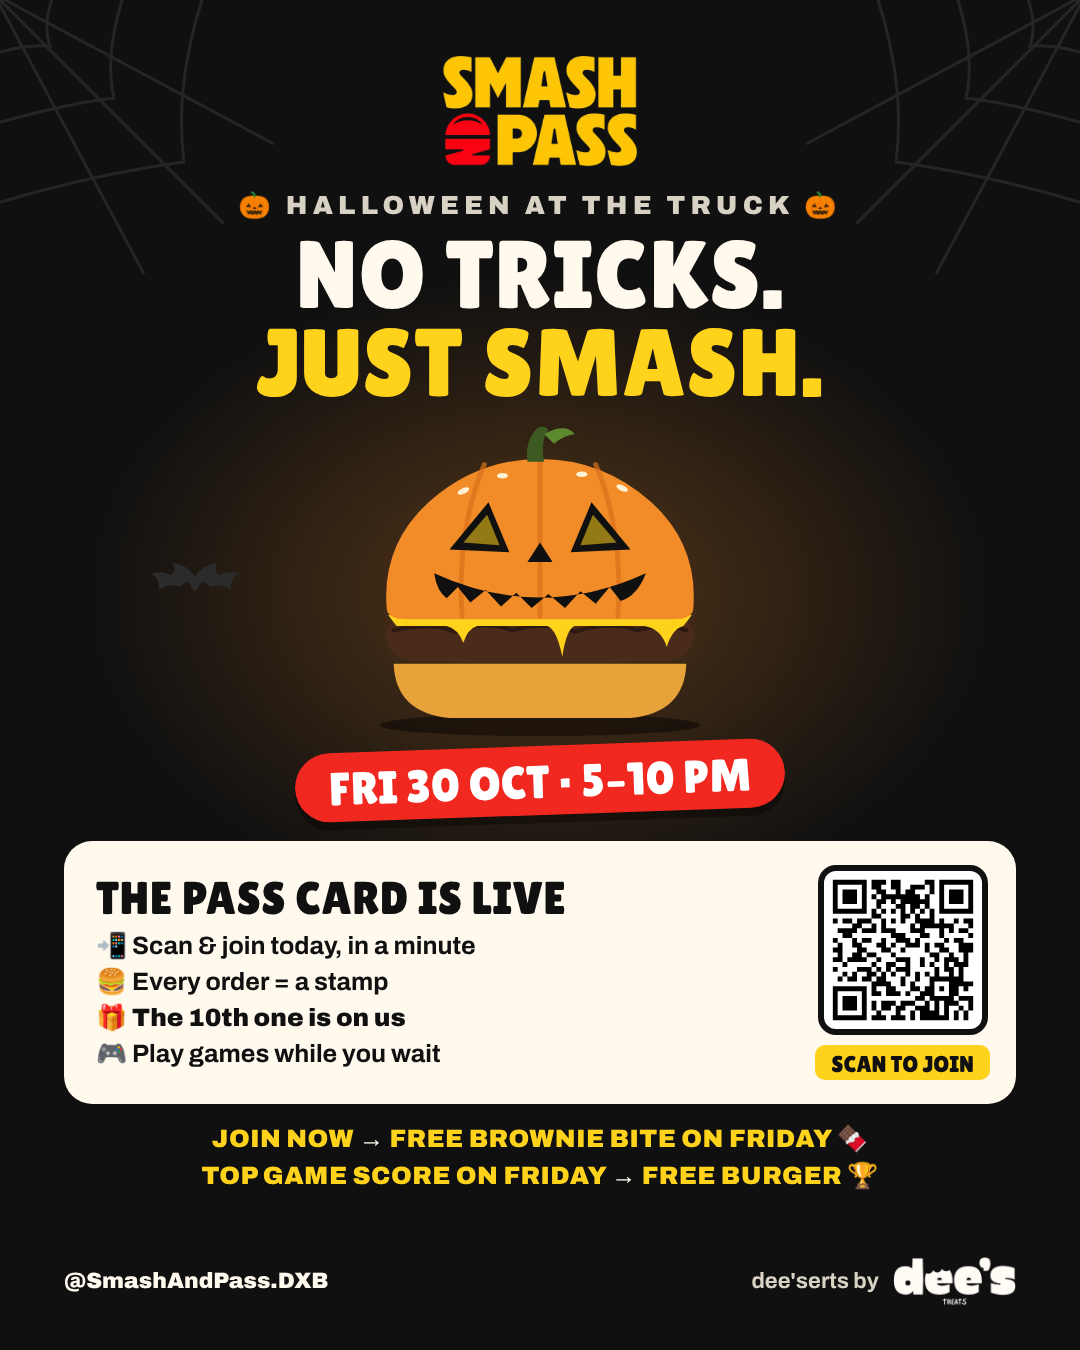
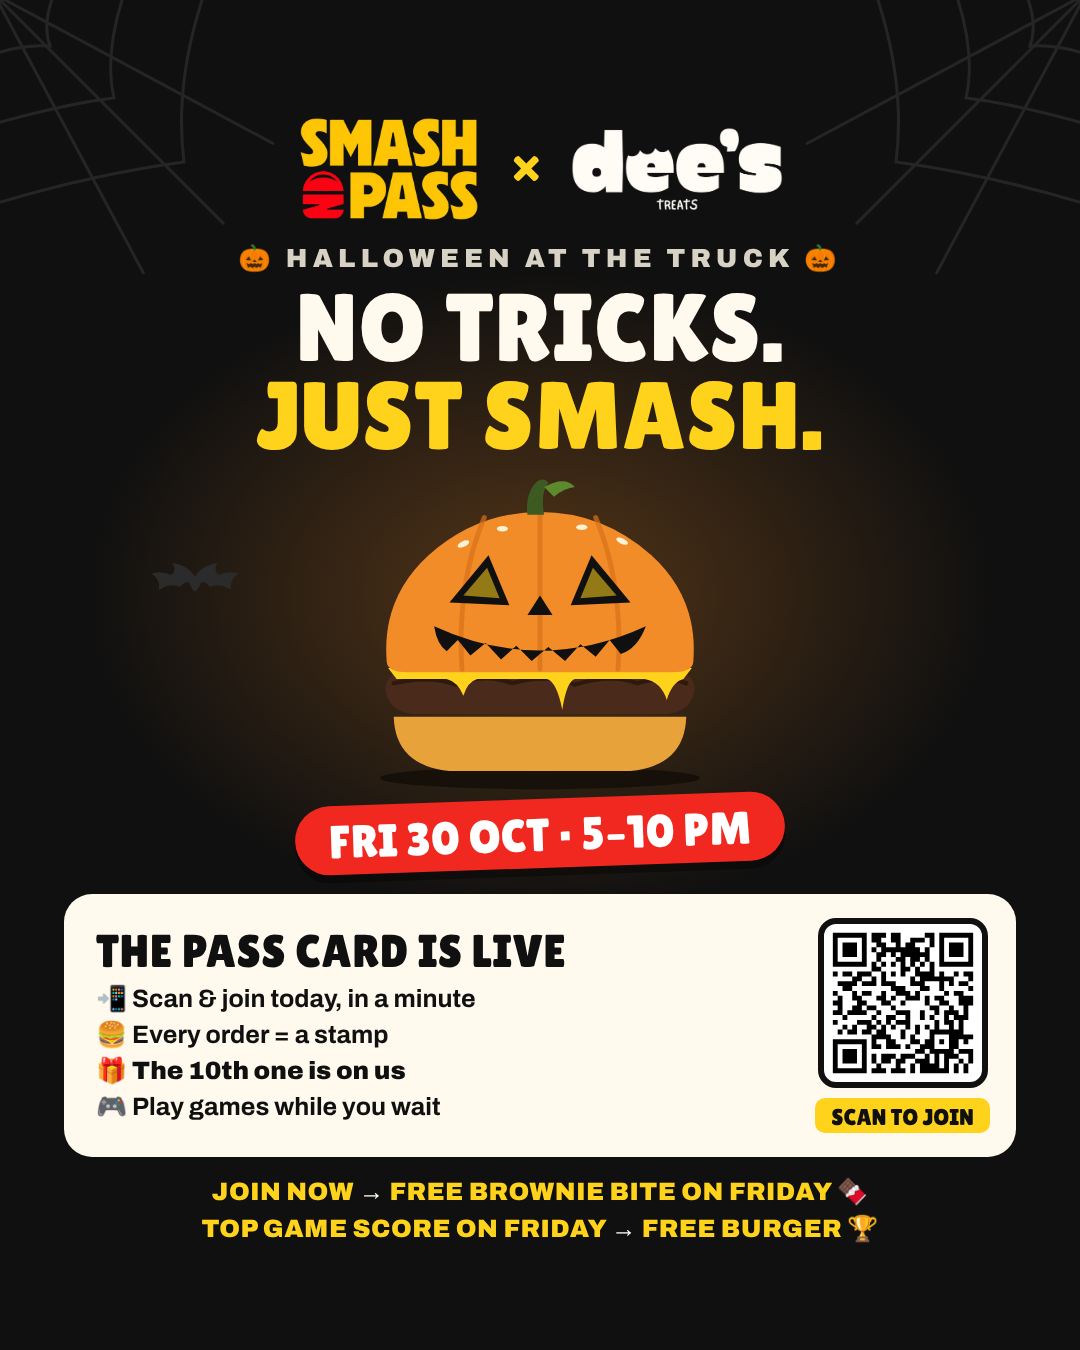
Flyers: Smash × Dee's lockup on the Halloween flyer
Both logos side by side at the top with Dee's shown big, for posting on
Dee's page; the footer (Smash's Instagram, the small Dee's mark) is gone
and the content is centred.

Claude-Session: https://claude.ai/code/session_013jqCNqdF81wxGwRqXjaL6W

Changed region(s): [[0.0611, 0.0311, 0.9472, 0.9644]]

diff --git a/flyers/smash-halloween-2026/flyer.html b/flyers/smash-halloween-2026/flyer.html
@@ -8,14 +8,17 @@
 :root{--ink:#101010;--yel:#FFD21C;--red:#F02820;--cream:#FFF9EE;--kraft:#D8D2C4;--pump:#F28C28}
 *{box-sizing:border-box;margin:0;padding:0}
 body{background:#333;font-family:Archivo,sans-serif}
-.board{position:relative;overflow:hidden;background:radial-gradient(60% 34% at 50% 44%,rgba(242,140,40,.30),rgba(242,140,40,0) 70%),var(--ink);color:var(--cream);display:flex;flex-direction:column;align-items:center;text-align:center}
+.board{position:relative;overflow:hidden;background:radial-gradient(60% 34% at 50% 44%,rgba(242,140,40,.30),rgba(242,140,40,0) 70%),var(--ink);color:var(--cream);display:flex;flex-direction:column;align-items:center;justify-content:center;text-align:center}
 #story{width:1080px;height:1920px;padding:70px 70px 60px}
 #post{width:1080px;height:1350px;padding:52px 64px 44px}
 .web{position:absolute;width:300px;height:300px;opacity:.5}
 .web.l{left:-6px;top:-6px}.web.r{right:-6px;top:-6px;transform:scaleX(-1)}
 .bat{position:absolute;fill:#2B2B2B}
-.logo{display:block;height:170px;width:auto}
-#post .logo{height:118px}
+.lock{display:flex;align-items:center;justify-content:center;gap:34px;position:relative;z-index:1}   /* in front of the web */
+.logo{display:block;height:150px;width:auto}
+.dlogo{display:block;height:118px;width:auto}
+.x{font-family:Lilita,sans-serif;font-size:84px;line-height:1;color:var(--yel)}
+#post .lock{gap:26px}#post .logo{height:108px}#post .dlogo{height:86px}#post .x{font-size:62px}
 .kick{font-weight:900;font-size:32px;letter-spacing:.2em;color:var(--kraft);margin-top:34px}
 #post .kick{font-size:26px;margin-top:20px}
 h1{font-family:Lilita,sans-serif;font-weight:400;line-height:.92;margin-top:16px;letter-spacing:.01em}
@@ -82,7 +85,7 @@ h1 .y{color:var(--yel)}
   <div class="slot-web"></div>
   <svg class="bat" style="left:110px;top:760px;width:120px" viewBox="0 0 120 50"><path d="M60 22 Q50 6 30 4 Q36 14 28 20 Q16 14 2 18 Q14 26 12 40 Q26 30 40 36 Q46 28 52 30 Q56 40 60 42 Q64 40 68 30 Q74 28 80 36 Q94 30 108 40 Q106 26 118 18 Q104 14 92 20 Q84 14 90 4 Q70 6 60 22 Z"/></svg>
   <svg class="bat" style="right:120px;top:900px;width:90px" viewBox="0 0 120 50"><path d="M60 22 Q50 6 30 4 Q36 14 28 20 Q16 14 2 18 Q14 26 12 40 Q26 30 40 36 Q46 28 52 30 Q56 40 60 42 Q64 40 68 30 Q74 28 80 36 Q94 30 108 40 Q106 26 118 18 Q104 14 92 20 Q84 14 90 4 Q70 6 60 22 Z"/></svg>
-  <img class="logo" src="logo.png" alt="Smash &amp; Pass">
+  <div class="lock"><img class="logo" src="logo.png" alt="Smash &amp; Pass"><span class="x">×</span><img class="dlogo" src="dees-mark.png" alt="Dee's Treats"></div>
   <div class="kick">🎃 HALLOWEEN AT THE TRUCK 🎃</div>
   <h1><span>NO TRICKS.</span><span class="y">JUST SMASH.</span></h1>
   <div class="slot-burger"></div>
@@ -103,13 +106,12 @@ h1 .y{color:var(--yel)}
     <div>JOIN NOW <i>→</i> FREE BROWNIE BITE ON FRIDAY 🍫</div>
     <div>TOP GAME SCORE ON FRIDAY <i>→</i> FREE BURGER 🏆</div>
   </div>
-  <div class="foot"><span><b>@SmashAndPass.DXB</b></span><span class="dees">dee'serts by <img src="dees-mark.png" alt="Dee's Treats"></span></div>
 </div>
 
 <div class="board" id="post">
   <div class="slot-web"></div>
   <svg class="bat" style="left:150px;top:560px;width:90px" viewBox="0 0 120 50"><path d="M60 22 Q50 6 30 4 Q36 14 28 20 Q16 14 2 18 Q14 26 12 40 Q26 30 40 36 Q46 28 52 30 Q56 40 60 42 Q64 40 68 30 Q74 28 80 36 Q94 30 108 40 Q106 26 118 18 Q104 14 92 20 Q84 14 90 4 Q70 6 60 22 Z"/></svg>
-  <img class="logo" src="logo.png" alt="Smash &amp; Pass">
+  <div class="lock"><img class="logo" src="logo.png" alt="Smash &amp; Pass"><span class="x">×</span><img class="dlogo" src="dees-mark.png" alt="Dee's Treats"></div>
   <div class="kick">🎃 HALLOWEEN AT THE TRUCK 🎃</div>
   <h1><span>NO TRICKS.</span><span class="y">JUST SMASH.</span></h1>
   <div class="slot-burger"></div>
@@ -130,7 +132,6 @@ h1 .y{color:var(--yel)}
     <div>JOIN NOW <i>→</i> FREE BROWNIE BITE ON FRIDAY 🍫</div>
     <div>TOP GAME SCORE ON FRIDAY <i>→</i> FREE BURGER 🏆</div>
   </div>
-  <div class="foot"><span><b>@SmashAndPass.DXB</b></span><span class="dees">dee'serts by <img src="dees-mark.png" alt="Dee's Treats"></span></div>
 </div>
 
 <script>

diff --git a/flyers/smash-halloween-2026/README.md b/flyers/smash-halloween-2026/README.md
@@ -1,6 +1,6 @@
 # Smash & Pass · Halloween 2026 flyer
 
-Instagram story (1080×1920) and post (1080×1350) for the Pass Card launch at Friday's event, 30 Oct 2026, 5–10 pm.
+Smash & Pass × Dee's: Instagram story (1080×1920) and post (1080×1350) for the Pass Card launch at Friday's event, 30 Oct 2026, 5–10 pm. Shared on Dee's page, so both logos sit at the top and there is no footer.
 
 - `flyer.html` holds both; open it in a browser. `SmashAndPass-Halloween-story.png` and `-post.png` are the exports.
 - Brand: black #101010, Smash yellow #FFD21C, red #F02820, cream #FFF9EE; Lilita One headlines, Archivo text (fonts in `fonts/`).
